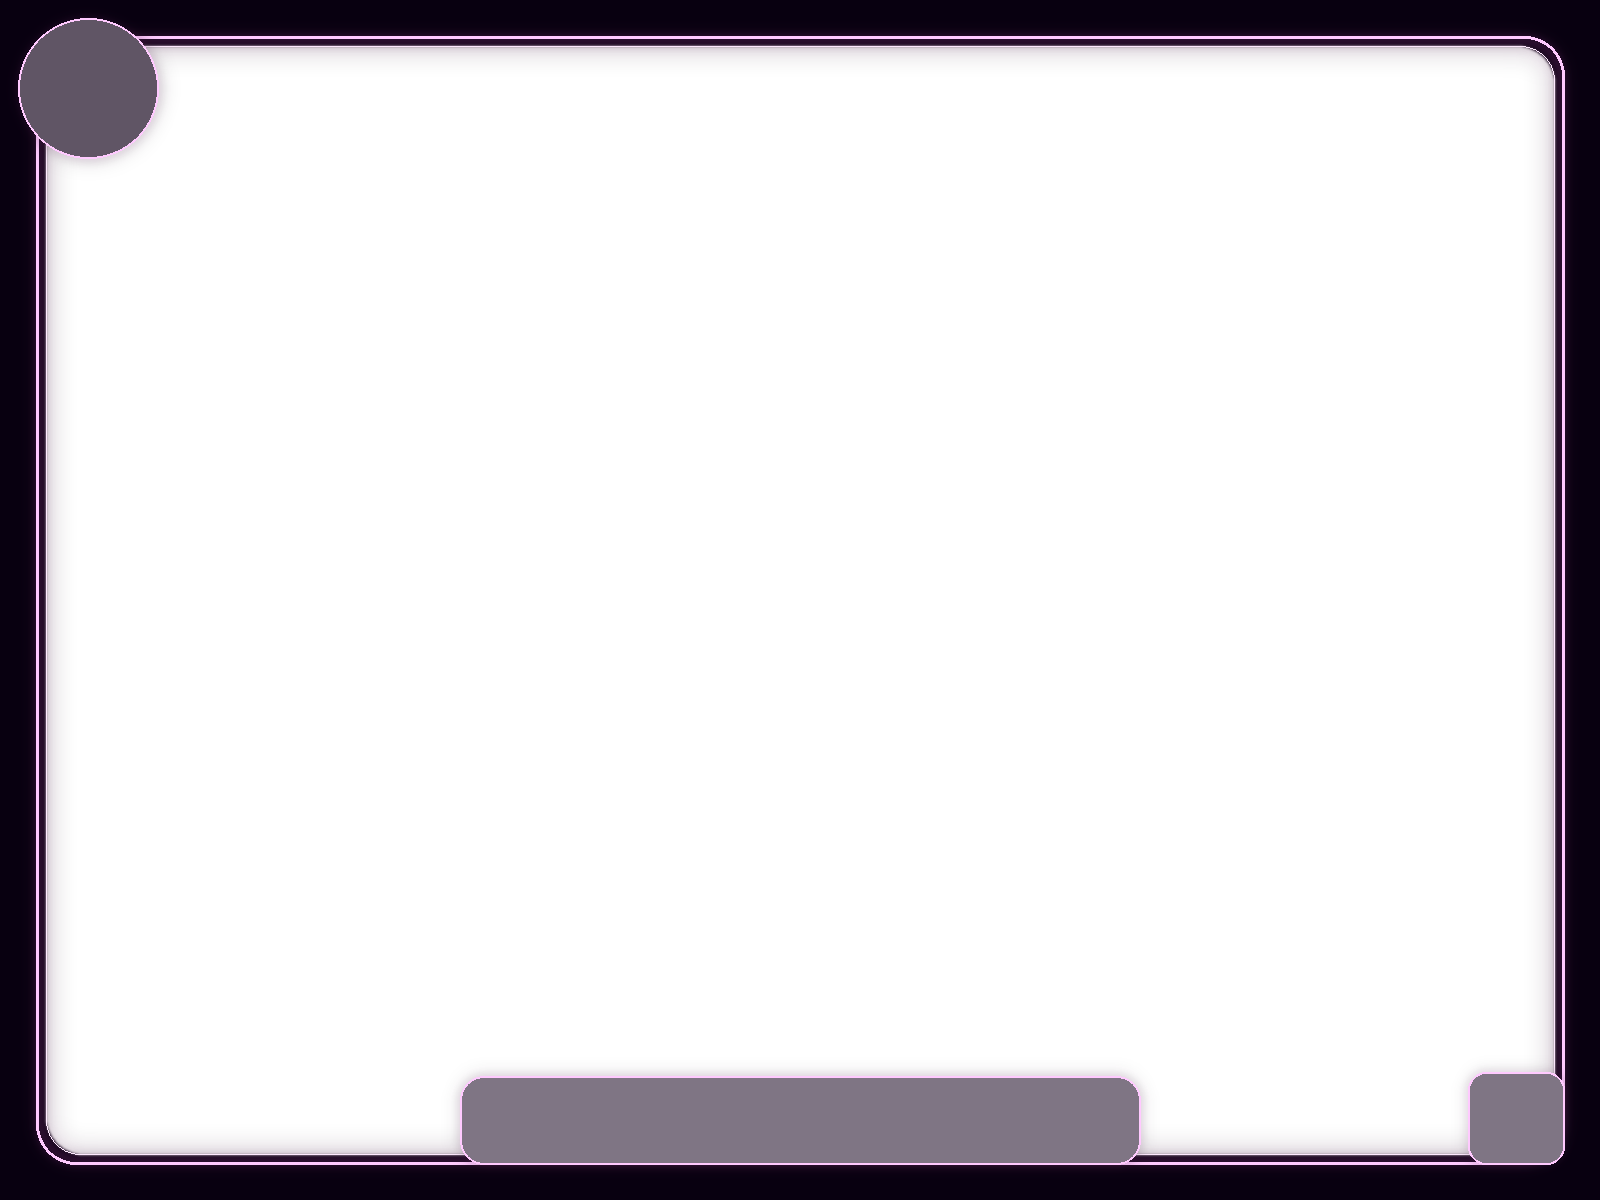
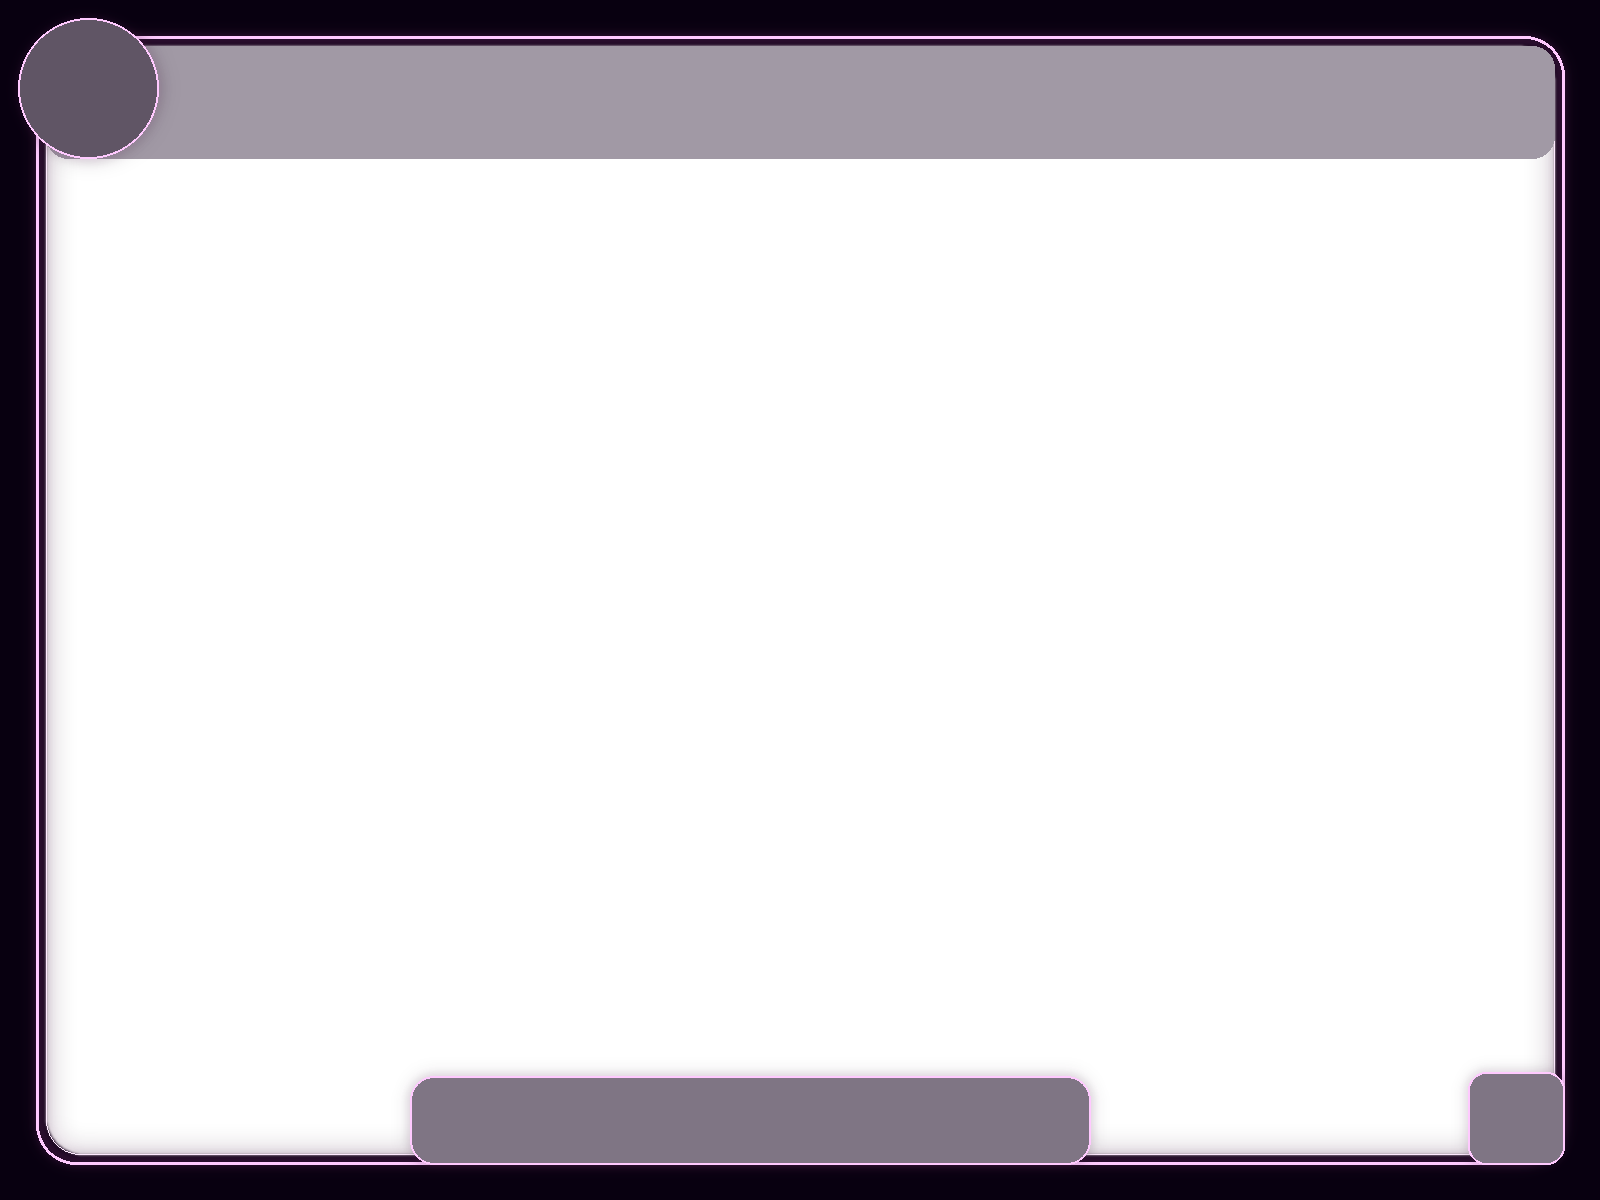
Overlay changes

Changed region(s): [[0.0625, 0.0308, 0.9688, 0.1542], [0.6562, 0.8942, 0.7188, 0.9867], [0.25, 0.8942, 0.3125, 0.9867]]

diff --git a/includes/photo-uploads.php b/includes/photo-uploads.php
@@ -567,6 +567,26 @@ function photo_imagick_draw_text(Imagick $canvas, $text, $x, $y, $fontPath, $fon
     return photo_imagick_text_width($canvas, $draw, $text);
 }
 
+
+function photo_imagick_measure_pill_width(Imagick $canvas, $text, $fontPath, $fontSize, $paddingX = 24, $maxWidth = 0) {
+    $probe = new ImagickDraw();
+    photo_imagick_set_font_safe($probe, $fontPath);
+    $probe->setFontSize($fontSize);
+    $label = trim((string)$text);
+    if ($label === '') {
+        return 0;
+    }
+    if ($maxWidth > 0) {
+        $label = photo_imagick_truncate_text($canvas, $probe, $label, max(10, $maxWidth - ($paddingX * 2)));
+    }
+    $textWidth = photo_imagick_text_width($canvas, $probe, $label);
+    $width = (int)ceil($textWidth + ($paddingX * 2));
+    if ($maxWidth > 0) {
+        $width = min($width, (int)$maxWidth);
+    }
+    return $width;
+}
+
 function photo_imagick_draw_pill(Imagick $canvas, $text, $x, $y, $fontPath, $fontSize, $textColor, $strokeColor, $fillColor, $paddingX = 24, $height = 42, $maxWidth = 0) {
     $probe = new ImagickDraw();
     photo_imagick_set_font_safe($probe, $fontPath);
@@ -679,21 +699,31 @@ function photo_render_framed_image($sourcePath, $destPath, $event, $orientation 
 
         if ($landscape) {
             $titleX = 178;
-            $titleY = 70;
+            $titleY = 82;
             $titleMaxW = 470;
             $titleSize = photo_imagick_fit_font_size($canvas, $eventName, $fontBold, 36, $titleMaxW, 24);
             photo_imagick_draw_text($canvas, $eventName, $titleX, $titleY, $fontBold, $titleSize, '#ffcf40', 'rgba(80,0,40,0.75)', 1, $titleMaxW);
 
             $venueText = ($venueLine !== '' ? $venueLine : 'Dance Thru The Decades');
             $dateText = ($dateLine !== '' ? $dateLine : 'TBA');
-            photo_imagick_draw_text($canvas, $venueText, 178, 106, $fontBold, 20, '#ffd977', 'rgba(80,0,40,0.60)', 1, 470);
-            photo_imagick_draw_text($canvas, $dateText, 178, 134, $fontBold, 20, '#ffd977', 'rgba(80,0,40,0.60)', 1, 470);
+            photo_imagick_draw_text($canvas, $venueText, 178, 118, $fontBold, 20, '#ffd977', 'rgba(80,0,40,0.60)', 1, 470);
+            photo_imagick_draw_text($canvas, $dateText, 178, 146, $fontBold, 20, '#ffd977', 'rgba(80,0,40,0.60)', 1, 470);
 
-            photo_imagick_draw_pill($canvas, 'EVENT PHOTO', 1270, 52, $fontBold, 15, 'white', '#f7aaff', 'rgba(12,0,20,0.78)', 20, 30, 220);
+            $pillTopY = 56;
+            $pillGap = 14;
+            $rightInset = 62;
+            $eventMaxW = 220;
+            $eventW = photo_imagick_measure_pill_width($canvas, 'EVENT PHOTO', $fontBold, 15, 20, $eventMaxW);
+            $eventX = $canvasW - $rightInset - $eventW;
             $creditName = trim((string)$creditName);
             if ($creditName !== '') {
-                photo_imagick_draw_pill($canvas, 'Photo by ' . $creditName, 1090, 90, $fontBold, 14, 'white', '#f7aaff', 'rgba(12,0,20,0.78)', 18, 30, 390);
+                $creditText = 'Photo by ' . $creditName;
+                $creditMaxW = 390;
+                $creditW = photo_imagick_measure_pill_width($canvas, $creditText, $fontBold, 14, 18, $creditMaxW);
+                $creditX = $eventX - $pillGap - $creditW;
+                photo_imagick_draw_pill($canvas, $creditText, $creditX, $pillTopY, $fontBold, 14, 'white', '#f7aaff', 'rgba(12,0,20,0.78)', 18, 30, $creditMaxW);
             }
+            photo_imagick_draw_pill($canvas, 'EVENT PHOTO', $eventX, $pillTopY, $fontBold, 15, 'white', '#f7aaff', 'rgba(12,0,20,0.78)', 20, 30, $eventMaxW);
 
             photo_imagick_draw_text($canvas, 'Dance Thru The Decades', 800, 1115, $fontBold, 32, '#ffcf40', 'rgba(80,0,40,0.78)', 1, 0, Imagick::ALIGN_CENTER);
             photo_imagick_draw_text($canvas, '60s  •  70s  •  80s  •  90s  •  00s', 800, 1148, $fontBold, 17, '#ffcf40', null, 0, 0, Imagick::ALIGN_CENTER);
@@ -705,11 +735,23 @@ function photo_render_framed_image($sourcePath, $destPath, $event, $orientation 
             photo_imagick_draw_text($canvas, $eventName, $titleX, $titleY, $fontBold, $titleSize, '#ffcf40', 'rgba(80,0,40,0.75)', 1, $titleMaxW);
             photo_imagick_draw_text($canvas, ($venueLine !== '' ? $venueLine : 'Dance Thru The Decades'), 178, 104, $fontBold, 20, '#ffd977', 'rgba(80,0,40,0.60)', 1, 560);
             photo_imagick_draw_text($canvas, ($dateLine !== '' ? $dateLine : 'TBA'), 178, 130, $fontBold, 20, '#ffd977', 'rgba(80,0,40,0.60)', 1, 560);
-            photo_imagick_draw_pill($canvas, 'EVENT PHOTO', 690, 96, $fontBold, 15, 'white', '#f7aaff', 'rgba(12,0,20,0.78)', 20, 30, 210);
+
+            $pillTopY = 96;
+            $pillGap = 12;
+            $rightInset = 48;
+            $eventMaxW = 210;
+            $eventW = photo_imagick_measure_pill_width($canvas, 'EVENT PHOTO', $fontBold, 15, 20, $eventMaxW);
+            $eventX = $canvasW - $rightInset - $eventW;
             $creditName = trim((string)$creditName);
             if ($creditName !== '') {
-                photo_imagick_draw_pill($canvas, 'Photo by ' . $creditName, 650, 140, $fontBold, 14, 'white', '#f7aaff', 'rgba(12,0,20,0.78)', 18, 30, 330);
+                $creditText = 'Photo by ' . $creditName;
+                $creditMaxW = 360;
+                $creditW = photo_imagick_measure_pill_width($canvas, $creditText, $fontBold, 14, 18, $creditMaxW);
+                $creditX = $eventX - $pillGap - $creditW;
+                photo_imagick_draw_pill($canvas, $creditText, $creditX, $pillTopY, $fontBold, 14, 'white', '#f7aaff', 'rgba(12,0,20,0.78)', 18, 30, $creditMaxW);
             }
+            photo_imagick_draw_pill($canvas, 'EVENT PHOTO', $eventX, $pillTopY, $fontBold, 15, 'white', '#f7aaff', 'rgba(12,0,20,0.78)', 20, 30, $eventMaxW);
+
             photo_imagick_draw_text($canvas, 'Dance Thru The Decades', 540, 1274, $fontBold, 30, '#ffcf40', 'rgba(80,0,40,0.78)', 1, 0, Imagick::ALIGN_CENTER);
             photo_imagick_draw_text($canvas, '60s  •  70s  •  80s  •  90s  •  00s', 540, 1300, $fontBold, 15, '#ffcf40', null, 0, 0, Imagick::ALIGN_CENTER);
         }
